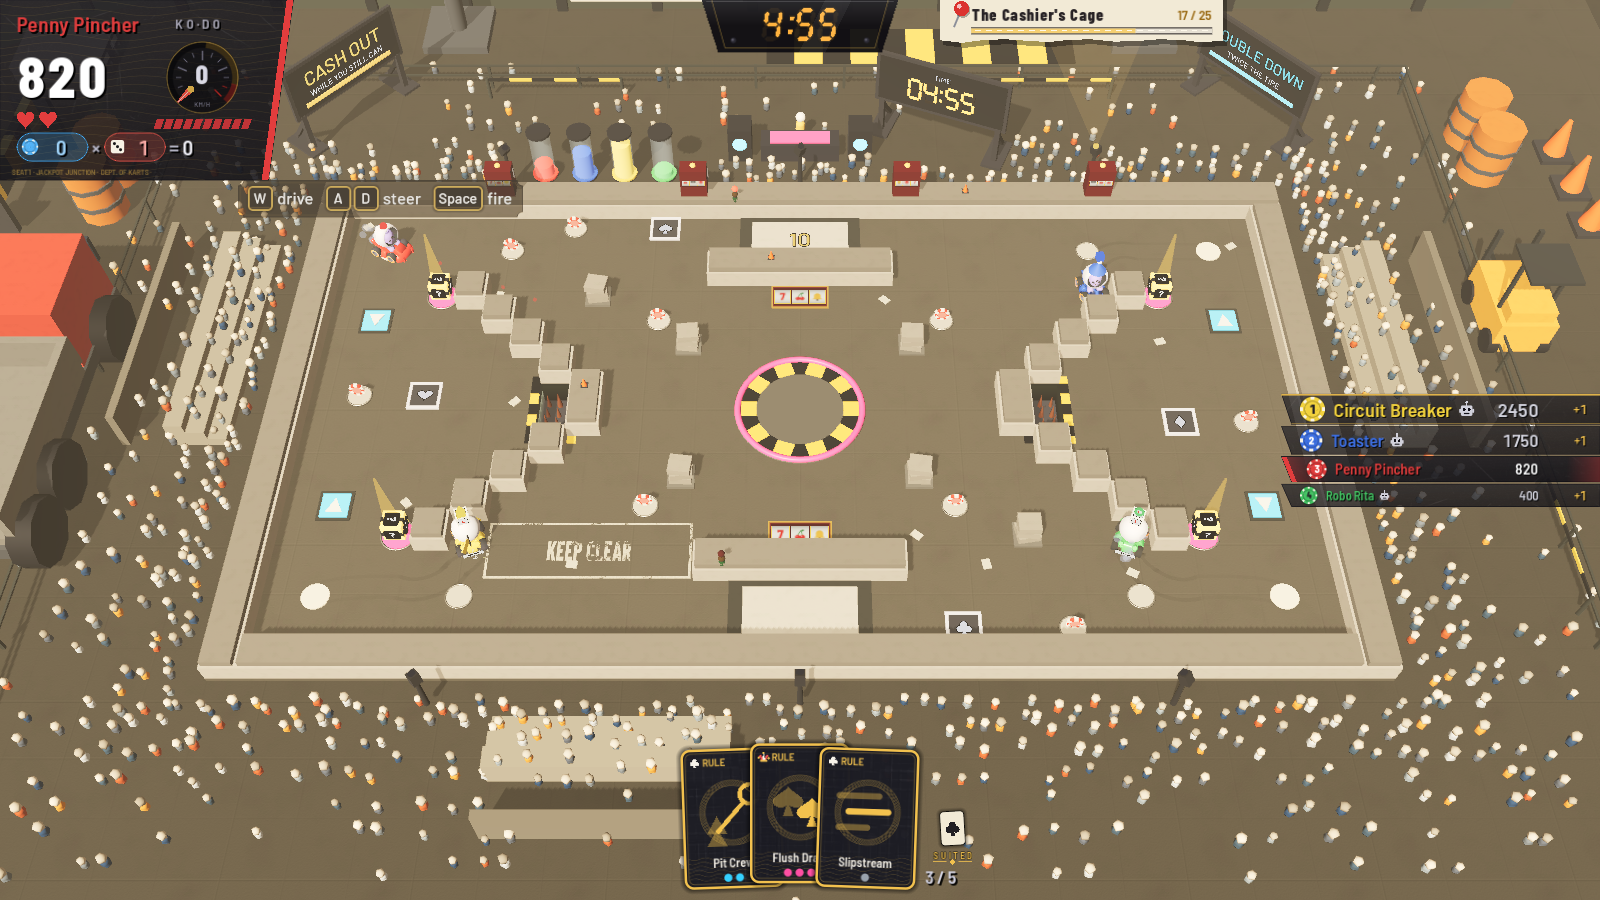
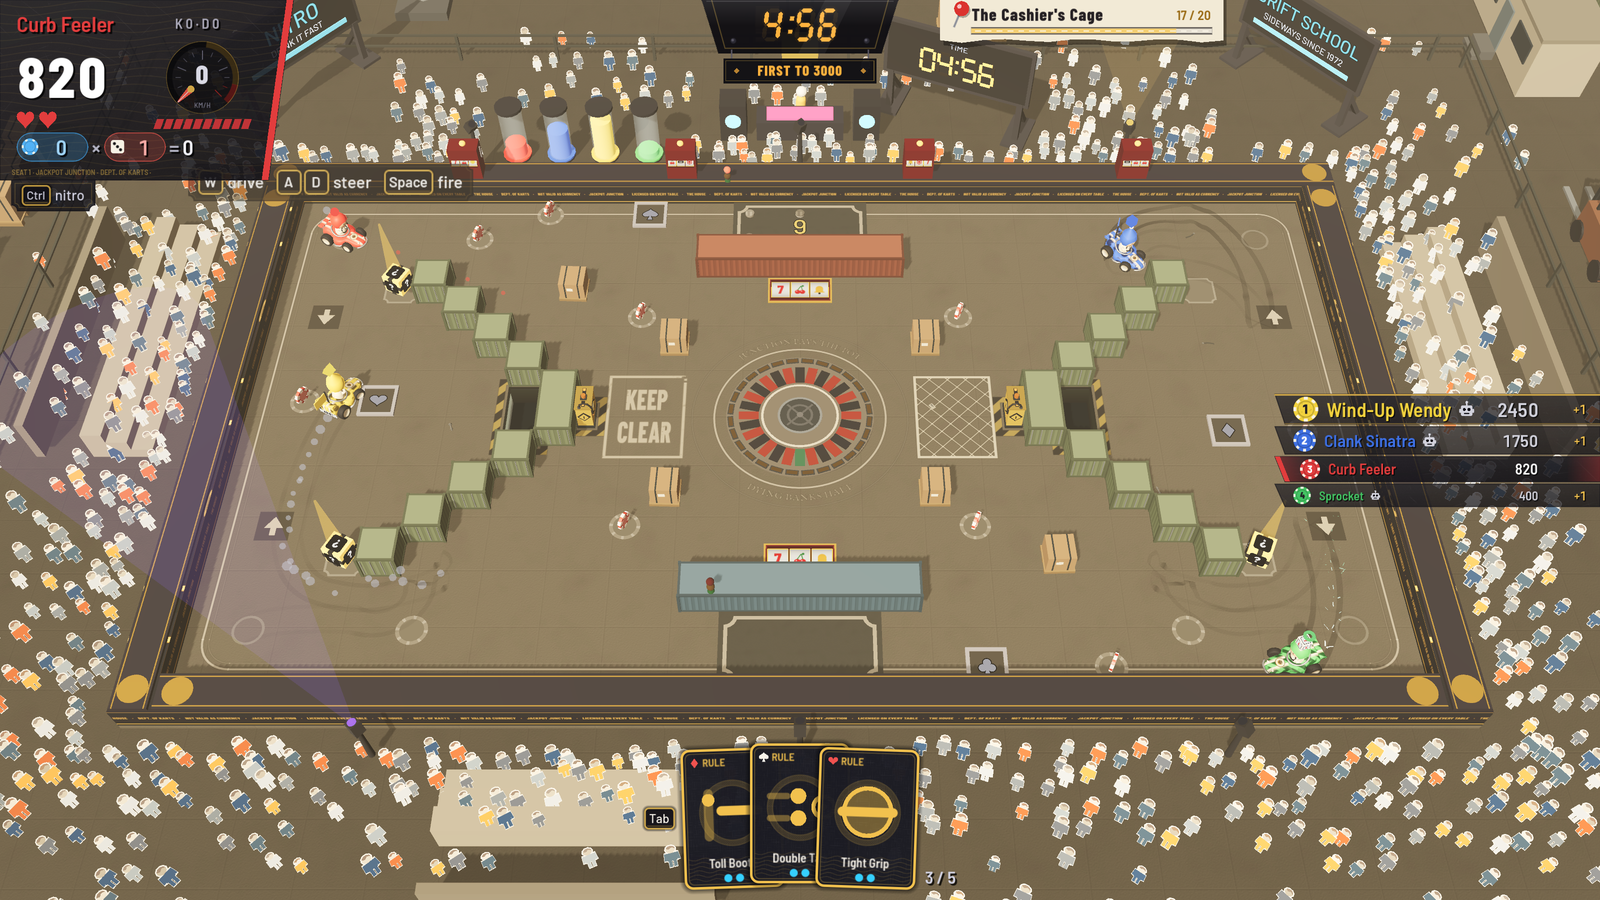
Retake the README's screenshots
On this build, each drawn at twice the size and scaled down so its edges
are smooth: the clock's goal tag in the Vault and Crossfire XL, the
pinned bet at 17 of 20, and the kart dialog with its Body hook.

Claude-Session: https://claude.ai/code/session_01FRRc2q5GRJA4AbNrTT7XaA

diff --git a/README.md b/README.md
@@ -17,15 +17,15 @@ under [Documentation](#documentation).
 
 Three arenas, three rooms to play them in, and an XL version of each with room to spare.
 
-![A dark card room with a green baize arena on the table in the middle of it, the only lit thing in the room. A roulette wheel of red and black pockets is let into the baize at the center, with low wooden walls round it, stacks of red chips against them and a slot machine on each of the inner walls, its reels showing sevens. Neon signs, BET THE FARM and SNAKE EYES, hang over a crowd picked out in pink, and the match clock glows orange above the far edge. Three players share the screen, a corner each: the first's dashboard is in the top left, in red, the second's in the top right, in blue, and the third's in the bottom left, in yellow, each with their drive hint beside it, the keyboard's and two gamepads'; the first player's hand of jokers is tucked small along the top beside their corner](docs/screenshots/the-vault.png)
+![A dark card room with a green baize arena on the table in the middle of it, the only lit thing in the room. A roulette wheel of red and black pockets is let into the baize at the center, with low wooden walls round it, stacks of red chips against them and a slot machine on each of the inner walls, its reels showing sevens. Neon signs, BET THE FARM and SNAKE EYES, hang over a crowd picked out in pink, and the match clock glows orange above the far edge, FIRST TO 3000 on a tag hung under it. Three players share the screen, a corner each: the first's dashboard is in the top left, in red, the second's in the top right, in blue, and the third's in the bottom left, in yellow, each with their drive hint beside it, the keyboard's and two gamepads'; the first player's hand of jokers is tucked small along the top beside their corner](docs/screenshots/the-vault.png)
 
 *The Vault, After Hours, three players at one screen.*
 
-![A concrete yard in late afternoon light seen from high above, with a far bigger arena marked out on it than the usual map: two long stepped walls of pale blocks curve toward each other across it, a pit edged in black and yellow hazard stripes sits in each of their bends, and a disc bordered in the same stripes lies in the open middle, a slot machine on the low wall above it and another below, with karts small against all that floor. The crowd fills stepped tribunes on every side, with a truck, stacked drums and a forklift beyond them, and lit hoardings and the match clock along the far edge. Beside the clock at the top hangs a slim scrap of paper with a red map pin: the bet the player has pinned in the loyalty program, The Cashier's Cage, 17 of 25 cash-outs along a little road filling in gold. The standings are on the right, and the player's hand of three jokers is along the bottom, each card marked with its suit, with the hand's count beside it, 3 of 5](docs/screenshots/crossfire-xl.png)
+![A concrete yard in late afternoon light seen from high above, with a far bigger arena marked out on it than the usual map: two long stepped walls of pale blocks curve toward each other across it, a pit edged in black and yellow hazard stripes sits in each of their bends, and a disc bordered in the same stripes lies in the open middle, a slot machine on the low wall above it and another below, with karts small against all that floor. The crowd fills stepped tribunes on every side, with a truck, stacked drums and a forklift beyond them, and lit hoardings and the match clock along the far edge, FIRST TO 3000 on a tag under it. Beside the clock at the top hangs a slim scrap of paper with a red map pin: the bet the player has pinned in the loyalty program, The Cashier's Cage, 17 of 20 cash-outs along a little road filling in gold. The standings are on the right, and the player's hand of three jokers is along the bottom, each card marked with its suit, with the hand's count beside it, 3 of 5](docs/screenshots/crossfire-xl.png)
 
 *Crossfire XL, in The Yard: the same room around a bigger arena, a loyalty program bet pinned by the clock.*
 
-![The Your kart dialog, an old workshop bay in a steel frame with hazard stripes along its foot. Top left a red enamel sign reads YOUR KART, THE GARAGE, BAY 1; a timber rail of keys hangs along the top with the seat's key tag, Tail Light Tim, and a printed BACK plate sits top right. Two pegboards in red frames stand either side with a hook for each part of the kart, a picture of the piece worn hanging on it and its name on masking tape: Flag, Checkered; Plate; Trail, Confetti; and Card back, The House's, on the left; Hat, Top hat; Paint, Racing stripes; and Marks, Plain, on the right, over a big red SHUFFLE push button in a plate of hazard stripes. In the middle the player's blue kart with racing stripes stands on the lift's turntable between its red posts under two green shop lamps, trying on a gold crown, a line of rope running from the Hat hook to it. Along the foot the rack of hats hangs over the bench, 15 of 15 won, None, Cap, Top hat marked ON, the crown picked out in gold, Party, Learner, Dealer's visor, Fedora and more past an arrow](docs/screenshots/your-kart.png)
+![The Your kart dialog, an old workshop bay in a steel frame with hazard stripes along its foot. Top left a red enamel sign reads YOUR KART, THE GARAGE, BAY 1; a timber rail of keys hangs along the top with the seat's key tag, Tail Light Tim, and a printed BACK plate sits top right. Two pegboards in red frames stand either side with a hook for each part of the kart, a picture of the piece worn hanging on it and its name on masking tape: Flag, Checkered; Hat, Top hat; Trail, Confetti; and Card back, The House's, on the left; Body, Racer; Paint, Racing stripes; Plate, None; and Marks, Plain, on the right, over a big red SHUFFLE push button in a plate of hazard stripes. In the middle the player's blue kart with racing stripes stands on the lift's turntable between its red posts under two green shop lamps, trying on a gold crown, a line of rope running from the Hat hook to it. Along the foot the rack of hats hangs over the bench, 16 of 16 won, None, Cap, Top hat marked ON, the crown picked out in gold, Party, Learner, Dealer's visor, Fedora and more past an arrow](docs/screenshots/your-kart.png)
 
 *Your kart, in the Garage's bay: a hook for each part, and a rack of every piece to try on.*
 
